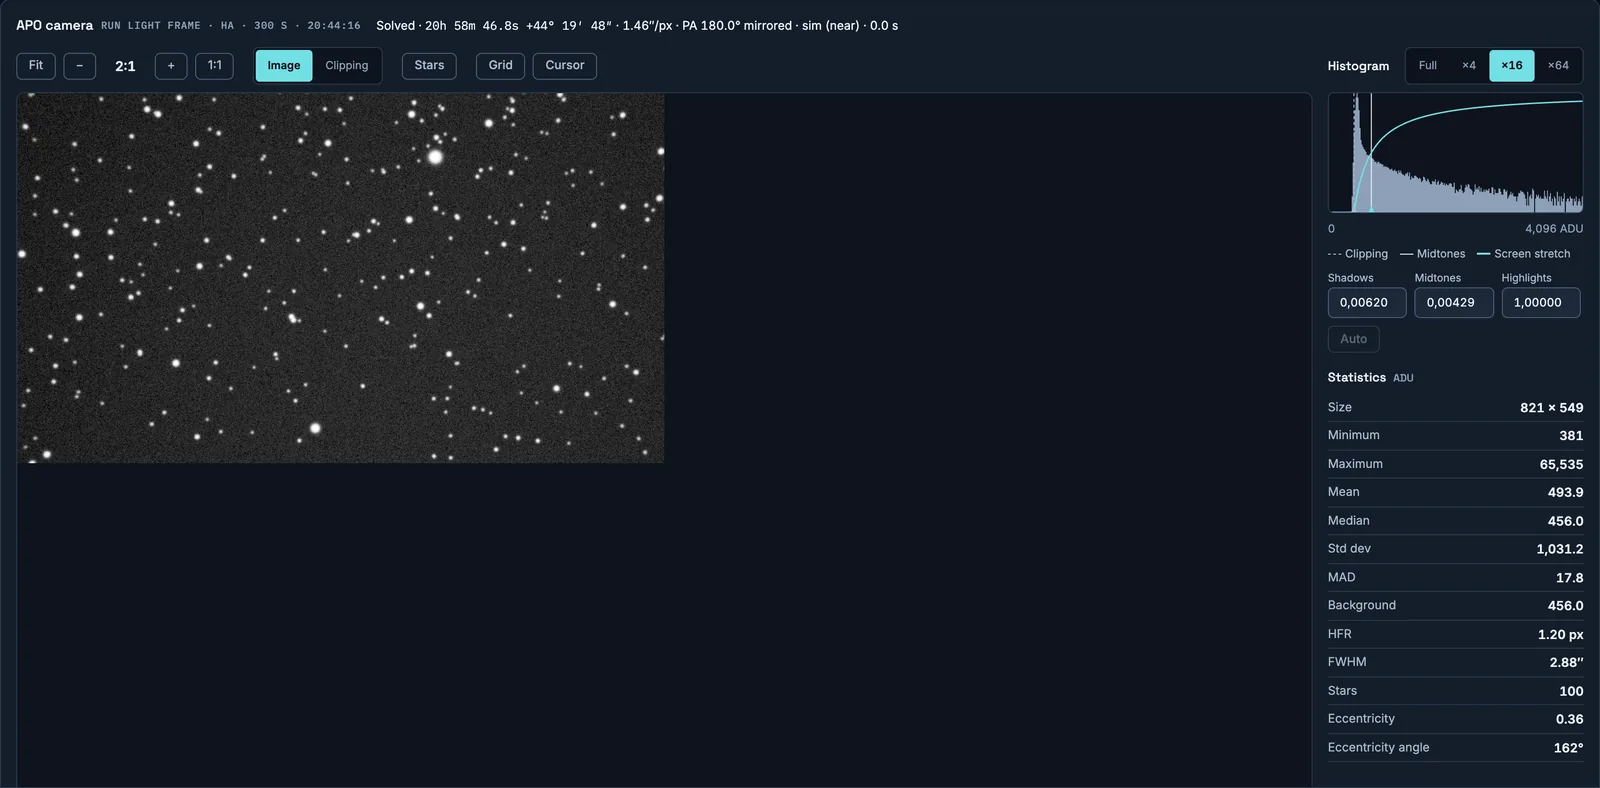
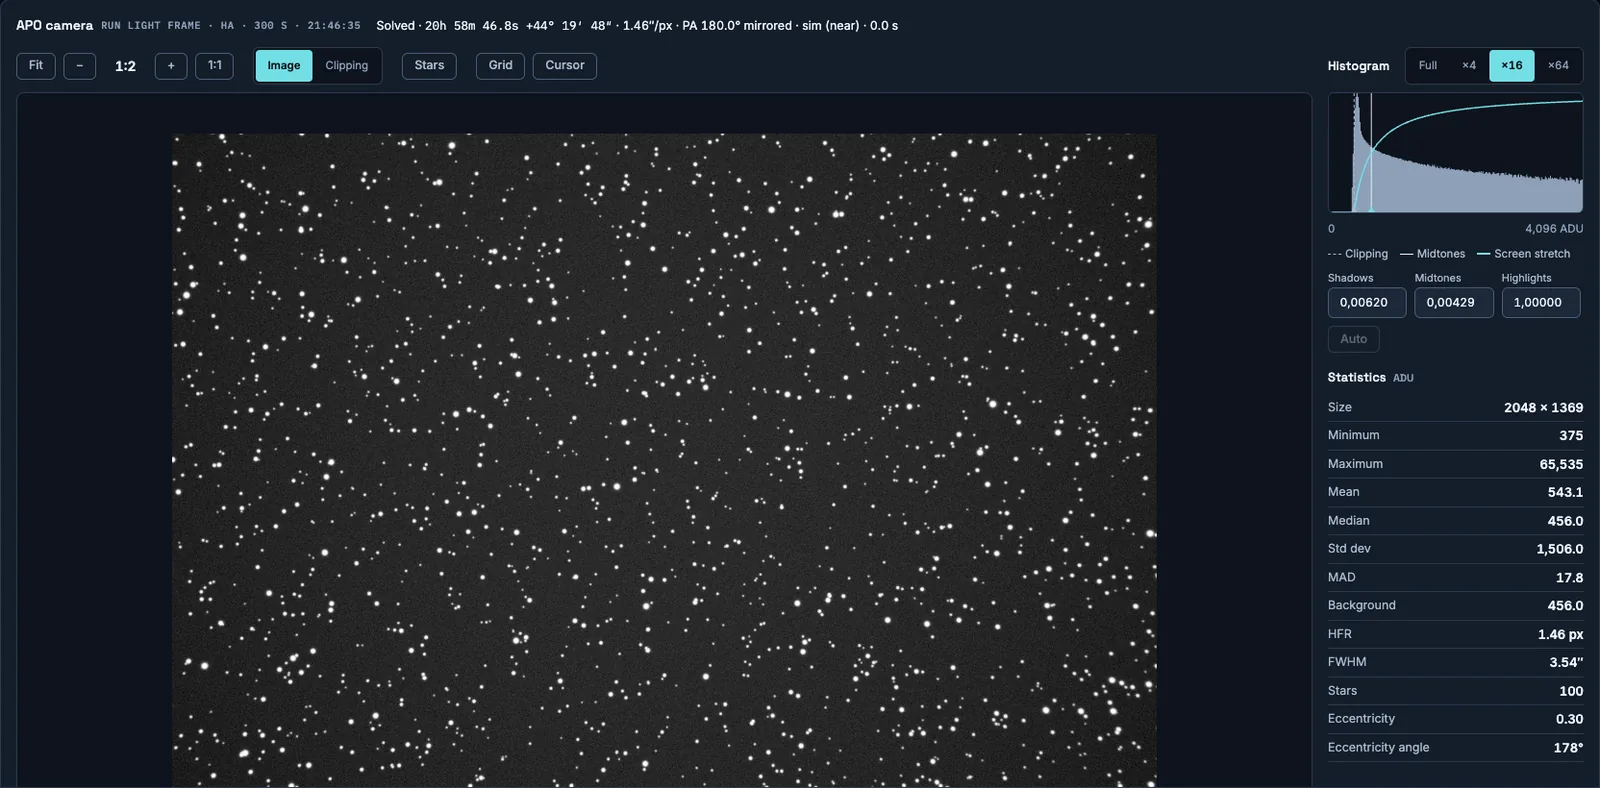
.

diff --git a/index.html b/index.html
@@ -273,7 +273,7 @@
       <div class="node">
         <span class="tile"><svg class="icon"><use href="#i-monitor-smartphone"/></svg></span>
         <b>Your browser</b>
-        <span>Observatory screen, laptop, tablet or phone. It shows Core's state and asks for actions. It is never an authority.</span>
+        <span>Observatory screen, laptop, tablet or phone. It shows Core's state and asks for actions; it is never an authority. The heavy downloads are its own: the framing view's sky survey comes from CDS straight into the browser, never through the observatory.</span>
       </div>
       <div class="link"><span class="line"></span><span class="tag"><svg class="icon"><use href="#i-lock"/></svg>WireGuard · Tailscale</span><span class="line"></span></div>
       <div class="node">
@@ -285,7 +285,7 @@
       <div class="node primary">
         <span class="tile accent"><svg class="icon"><use href="#i-cpu"/></svg></span>
         <b>Observatory PC</b>
-        <span>One UNOCTA process: Core, the night supervisor, the planner, the notifier, and the console it serves. A mini-PC at the mount, a NUC or a Raspberry Pi; .NET 8 and nothing else.</span>
+        <span>One UNOCTA process: Core, the night supervisor, the planner, the notifier, and the console it serves. A mini-PC at the mount, a NUC or a Raspberry Pi; .NET 8 and nothing else. A frame leaves as compressed tiles of a pyramid, only the ones on screen, coarse first, so a thin link carries what you look at.</span>
       </div>
       <div class="link"><span class="line"></span><span class="tag">Alpaca · ASCOM · NUT</span><span class="line"></span></div>
       <div class="node">
@@ -313,6 +313,7 @@
         <ul>
           <li>Alpaca over HTTP on any OS, ASCOM on Windows, NUT and USB-HID for the UPS, and a simulator, all behind one per-class device contract with one shared fixture suite.</li>
           <li>The console is bundled, so there is no web server to keep alive. The console keeps Core's time, not the browser's.</li>
+          <li>The observatory's link carries only Core's state and the frame tiles in view, lossless PNG, cached by the browser; the sky imagery behind the framing view is the browser's own download from CDS.</li>
         </ul>
         <div class="facts"><div><b class="num">1 process</b>Core, supervisor, planner, notifier</div><div><b>REST + WebSocket</b>one versioned API for every client</div><div><b class="num">3 backends</b>Alpaca, ASCOM, simulator</div></div>
       </div>

diff --git a/README.md b/README.md
@@ -24,8 +24,12 @@ running Jekyll over the files.
 Start the API on a spare port with a fresh data directory, sign in, load the
 demo observatory with its sample targets and runs, switch to Auto and move
 the demo clock into the night (`POST /api/v1/clock/demo`), then wait for the
-first frames. Capture full pages at 1920 × 1080 with a device scale of 2 and
-convert to WebP at 1600 px wide; the device shots are the Now page at 1920,
+first frames. Capture full pages at 1920 × 1080 with a device scale of 2 (the Camera page
+at scale 1: under Playwright's scale emulation the viewer's canvas is drawn
+at a fraction of its box) and convert to WebP at 1600 px wide; before the
+night starts, set `simulatedSky.catalog.fieldArcmin` to 60 in the applied
+profile (`GET /api/v1/profile/document`, `PUT /api/v1/profile`), so the
+simulator renders 2048 px frames instead of the 20′ default; the device shots are the Now page at 1920,
 Night at 1440, Safety at 768 × 1024 (touch) and Now at 390 × 844 (touch,
 mobile). Replace each file in `assets/shots/` under the same name and set the
 `width` and `height` attributes in `index.html` to the file's size, so the
